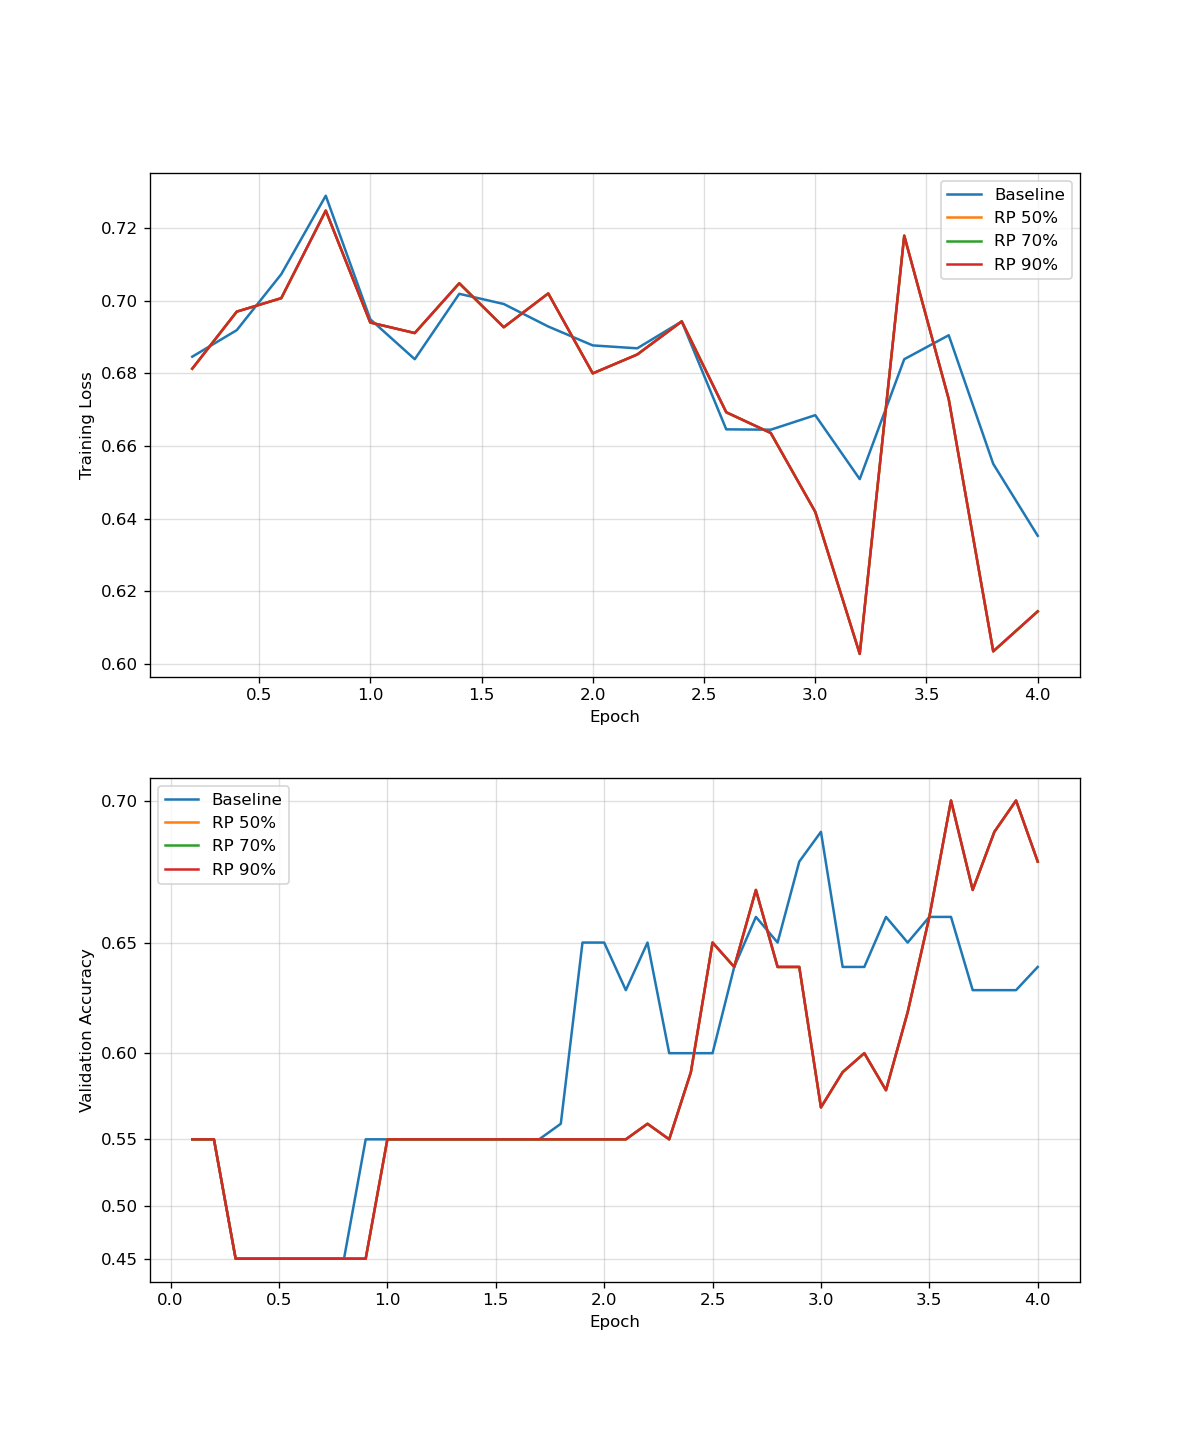
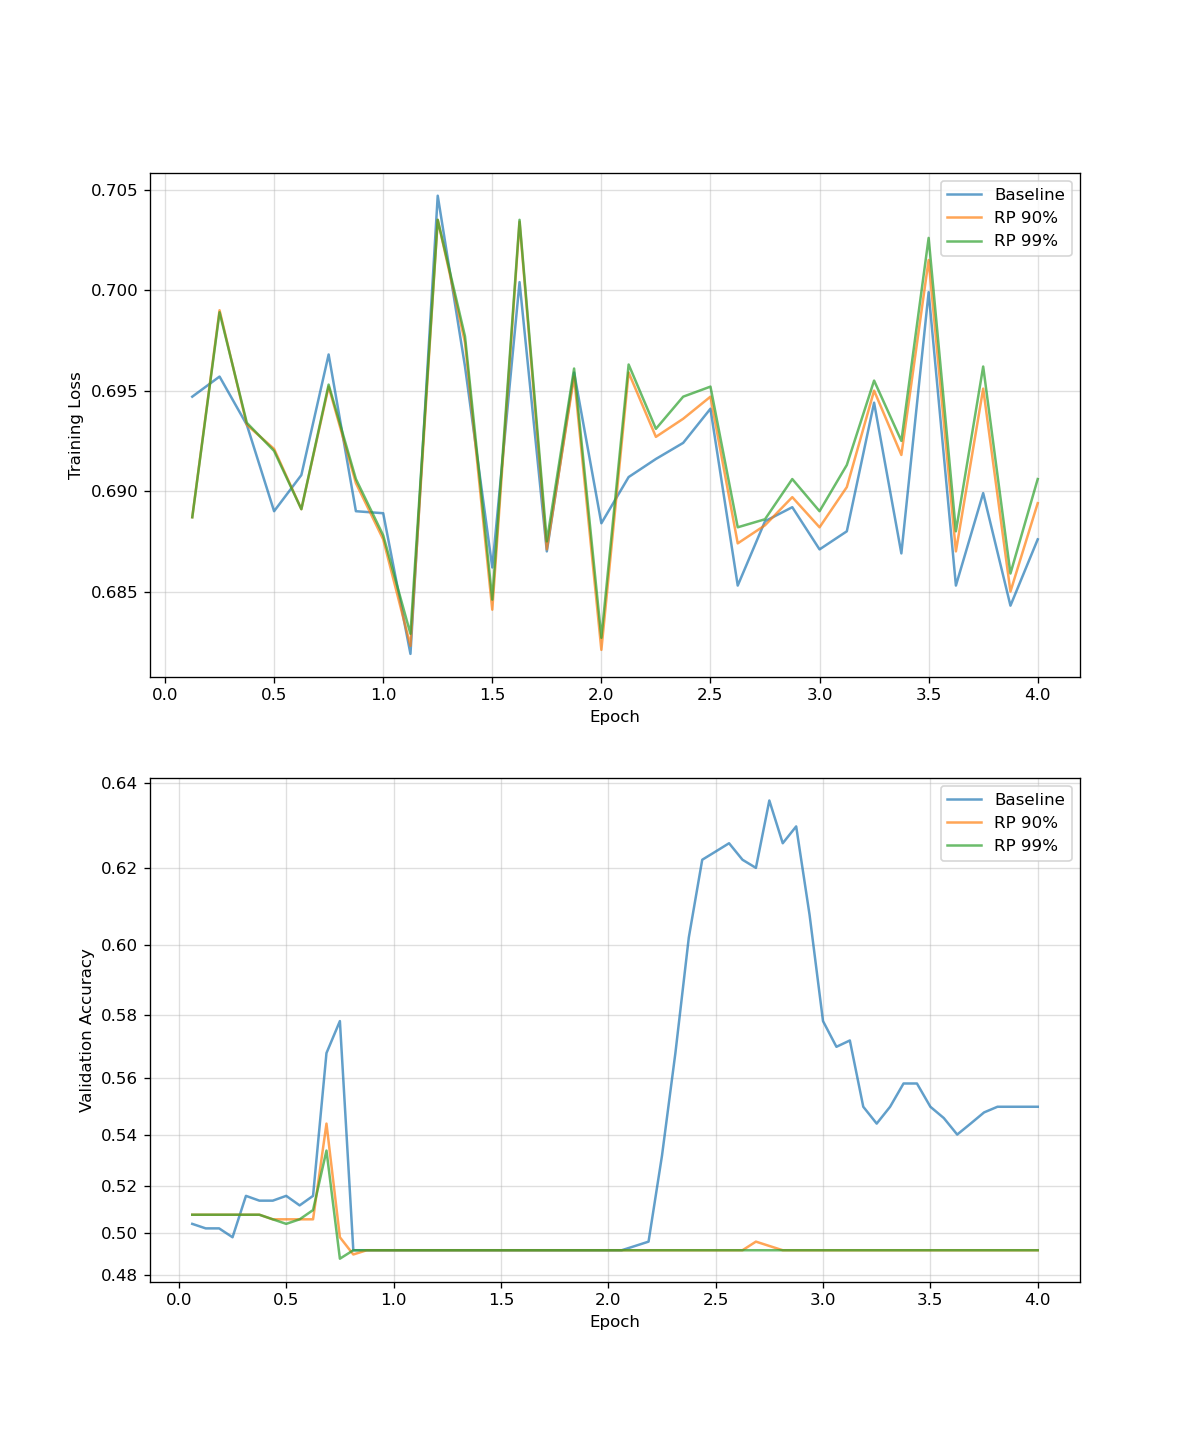
checkpoint

diff --git a/experiment.py b/experiment.py
@@ -8,7 +8,9 @@ from transformers import TrainingArguments, Trainer
 
 from resprop_linear import resprofify_bert
 from plot import plot_log_histories
-
+import torch.distributed as dist
+from torch.nn.parallel import DistributedDataParallel as DDP
+import os
 
 import torch
 
@@ -17,21 +19,22 @@ print("Number of GPUs:", torch.cuda.device_count())
 print("GPU Name:", torch.cuda.get_device_name(0) if torch.cuda.is_available() else "No GPU found")
 
 device = torch.device("cuda" if torch.cuda.is_available() else "cpu")
+# world_size = torch.cuda.device_count()
+# os.environ["MASTER_ADDR"] = "localhost"
+# os.environ["MASTER_PORT"] = "12355"
+
+# # Initialize the process group
+# dist.init_process_group(
+#     backend="nccl",
+#     init_method="env://",
+#     rank=0,  # Since it's a single node, use rank=0
+#     world_size=world_size
+# )
 
 
+model_name = "prajjwal1/bert-tiny"
+# model_name = "bert-base-uncased"
 
-
-# Remember to change to train and test later
-
-
-# # Set format for PyTorch
-# tokenized_datasets = tokenized_datasets.remove_columns(["sentence", "idx"]).with_format("torch")
-
-
-
-# model_name = "prajjwal1/bert-tiny"
-model_name = "bert-base-uncased"
-# tokenizer = AutoTokenizer.from_pretrained(model_name)
 base_model = BertForSequenceClassification.from_pretrained(
     model_name,
     num_labels=2,
@@ -43,27 +46,18 @@ base_model = BertForSequenceClassification.from_pretrained(
 def tokenize_function(examples):
     return tokenizer(examples["text"], max_length=128, padding="max_length", truncation=True)
 
-# model_name = "bert-base-uncased"
-# base_model = BertForSequenceClassification.from_pretrained(model_name)
 tokenizer = AutoTokenizer.from_pretrained(model_name)
 
-# # Load Data
-# # remember to save tokenized data next time
-# def tokenize_function(examples):
-#     return tokenizer(examples["sentence"], padding="max_length", truncation=True)
 
 print('loaded model', model_name)
 print('model config', base_model.config)
 
-# Load Data
-# 
 
 dataset = load_dataset("fancyzhx/yelp_polarity")
-# dataset = load_dataset("glue", "sst2")
 tokenized_datasets = dataset.map(tokenize_function, batched=True)
 
-train_dataset = tokenized_datasets["train"].shuffle(seed=42).select(range(640))
-eval_dataset = tokenized_datasets["test"].shuffle(seed=42).select(range(100))
+train_dataset = tokenized_datasets["train"].shuffle(seed=42).select(range(1000))
+eval_dataset = tokenized_datasets["test"].shuffle(seed=42).select(range(500))
 
 # Accuracy
 metric = evaluate.load("accuracy")
@@ -75,19 +69,23 @@ def compute_metrics(eval_pred):
 
 
 log_histories = {}
-for reuse_percentage in  [0.0, 0.5, 0.7, 0.9, 0.95, 0.99]: # [0.0, 0.5, 0.7, 0.9, 0.95, 0.99]
+for reuse_percentage in  [0.0,0.9,0.99]: # [0.0, 0.5, 0.7, 0.9, 0.95, 0.99]
+    print(f"Reuse Percentage: {reuse_percentage}")
     model = resprofify_bert(base_model, reuse_percentage=reuse_percentage)
+    # model = torch.nn.DataParallel(model)
     model.to(device)
+    # model = DDP(model, device_ids=[torch.cuda.current_device()], output_device=torch.cuda.current_device())
     training_args = TrainingArguments(
         output_dir=f"trainer_out/{model_name.replace('/', '-')}/rp_{int(reuse_percentage * 100)}",
         eval_strategy="steps",
         num_train_epochs=4,
         eval_steps=1/64, 
         logging_steps=1/32,
-        per_device_train_batch_size=8,
-        per_device_eval_batch_size=8,
+        # per_device_train_batch_size=128,
+        # per_device_eval_batch_size=128,        
+        per_device_train_batch_size=32,
+        per_device_eval_batch_size=32,
         logging_dir=f"trainer_out/{model_name.replace('/', '-')}/rp_{int(reuse_percentage * 100)}",
-        fp16=True
     )
 
     trainer = Trainer(
@@ -105,3 +103,5 @@ for reuse_percentage in  [0.0, 0.5, 0.7, 0.9, 0.95, 0.99]: # [0.0, 0.5, 0.7, 0.9
 
 # Generate Plot
 plot_log_histories(log_histories, file_name="result.png")
+
+#       

diff --git a/resprop_linear.py b/resprop_linear.py
@@ -6,6 +6,10 @@ import copy
 class ReSpropLinearFunction(torch.autograd.Function):
     @staticmethod
     def forward(ctx, input, weight, bias, prev_grad_output, reuse_percentage):
+        device = input.device  # Get the device
+        weight, bias = weight.to(device), bias.to(device) if bias is not None else None
+        prev_grad_output = prev_grad_output.to(device) if prev_grad_output is not None else None
+
         if prev_grad_output is not None and \
                 len(input.shape) == 3 and prev_grad_output.size(0) == input.size(1):
             prev_grad_input = torch.mm(prev_grad_output, weight)                        # pre∇w_l
@@ -89,12 +93,14 @@ class ReSpropLinear(nn.Linear):
         self.reuse_percentage = reuse_percentage
 
     def forward(self, input):
-        output = ReSpropLinearFunction.apply(input, self.weight, self.bias, self.prev_gradients, self.reuse_percentage)
-
+        device = input.device  # Ensure all tensors stay on the same GPU
+        output = ReSpropLinearFunction.apply(input, self.weight.to(device), self.bias.to(device) if self.bias is not None else None, 
+                                         self.prev_gradients.to(device) if self.prev_gradients is not None else None, 
+                                         self.reuse_percentage)
         if output.requires_grad:
             def hook(grad_output):
-                # Store gradients for next iteration
-                self.prev_gradients = grad_output[torch.randint(0, grad_output.size(0), (1,))][0].clone().detach()
+                # Store gradients on the correct GPU
+                self.prev_gradients = grad_output[torch.randint(0, grad_output.size(0), (1,))][0].clone().detach().to(device)
                 return None
 
             output.register_hook(hook)
@@ -107,7 +113,6 @@ class ReSpropLinear(nn.Linear):
         return super().extra_repr() + f", reuse_percentage={self.reuse_percentage}"
 
 
-
 def resprop_linear(layer: nn.Linear):
     return ReSpropLinear(
         layer.in_features,
@@ -116,19 +121,19 @@ def resprop_linear(layer: nn.Linear):
         reuse_percentage=reuse_percentage
     )
 
-def resprofify_gpt2(base_model, reuse_percentage=0.9):
-    model = copy.deepcopy(base_model)
-    for block in model.transformer.h:  # Iterate through transformer layers
-        # Self Attention
-        attn = block.attn
-        attn.c_attn = resprop_linear(attn.c_attn)  # Projects query, key, and value
-        attn.c_proj = resprop_linear(attn.c_proj)  # Attention output projection
+# def resprofify_gpt2(base_model, reuse_percentage=0.9):
+#     model = copy.deepcopy(base_model)
+#     for block in model.transformer.h:  # Iterate through transformer layers
+#         # Self Attention
+#         attn = block.attn
+#         attn.c_attn = resprop_linear(attn.c_attn)  # Projects query, key, and value
+#         attn.c_proj = resprop_linear(attn.c_proj)  # Attention output projection
 
-        # Feed Forward Block
-        block.mlp.c_fc = resprop_linear(block.mlp.c_fc)  # First Linear Layer in MLP
-        block.mlp.c_proj = resprop_linear(block.mlp.c_proj)  # Second Linear Layer in MLP
+#         # Feed Forward Block
+#         block.mlp.c_fc = resprop_linear(block.mlp.c_fc)  # First Linear Layer in MLP
+#         block.mlp.c_proj = resprop_linear(block.mlp.c_proj)  # Second Linear Layer in MLP
 
-    return model
+#     return model
 
 def resprofify_bert(base_model, reuse_percentage=0.9):
     def resprop_linear(layer: nn.Linear):

diff --git a/plot.py b/plot.py
@@ -17,8 +17,8 @@ def plot_log_histories(log_histories, file_name=None):
         acc_x = [x["epoch"] for x in log_history if "eval_accuracy" in x]
         acc_y = [x["eval_accuracy"] for x in log_history if "eval_accuracy" in x]
 
-        ax[0].plot(loss_x, loss_y, label=label)
-        ax[1].plot(acc_x, acc_y, label=label)
+        ax[0].plot(loss_x, loss_y, label=label, alpha=0.7)
+        ax[1].plot(acc_x, acc_y, label=label, alpha=0.7)
 
     ax[0].set_xlabel("Epoch")
     ax[0].set_ylabel("Training Loss")
